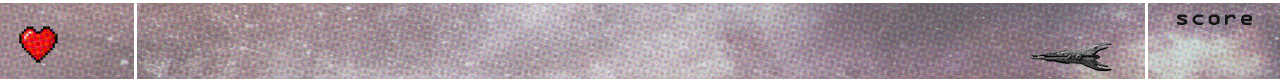
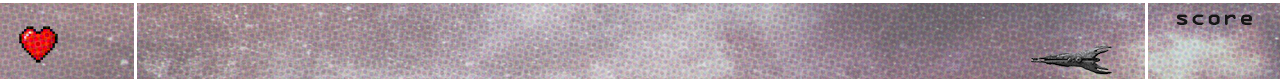
Added zeros to the left of scores so the text doesn't get distorted as scores increase, updated image accordingly.

Changed region(s): [[0.7812, 0.5316, 0.875, 0.9367]]

diff --git a/src/org/academiadecodigo/spaceimpact/simplegfx/SimpleGfxScoreBoard.java b/src/org/academiadecodigo/spaceimpact/simplegfx/SimpleGfxScoreBoard.java
@@ -47,11 +47,11 @@ public class SimpleGfxScoreBoard implements ScoreBoard {
         textLivesX = background.getPadding() + 85;
         textLivesY = y + 37;
 
-        textScoreX = background.getWidth() - 63;
-        textScoreY =  y + 37;
+        textScoreX = background.getWidth() - 75;
+        textScoreY = y + 45;
 
         destroyedEnemyShipsX = background.getWidth() - 210;
-        destroyedEnemyShipsY = y + 15;
+        destroyedEnemyShipsY = y + 20;
     }
 
     @Override
@@ -66,7 +66,7 @@ public class SimpleGfxScoreBoard implements ScoreBoard {
         textLives.draw();
 
         textScore = new Text(textScoreX, textScoreY, "");
-        textScore.grow( 4, 8);
+        textScore.grow(20, 20);
         textScore.draw();
 
         destroyedEnemyShips = new Text(destroyedEnemyShipsX, destroyedEnemyShipsY, "");
@@ -78,8 +78,34 @@ public class SimpleGfxScoreBoard implements ScoreBoard {
     public void showScore() {
         //method that updates the scores that are being displayed
 
-        textScore.setText("" + score.getTotal());
-        destroyedEnemyShips.setText("" + score.getDestroyedEnemyShips());
+        //number of lives left
         textLives.setText("" + score.getLives());
+
+        //total score
+        if (score.getTotal() == 0) {
+            textScore.setText("00000");
+        } else if (score.getTotal() < 10) {
+            textScore.setText("0000" + score.getTotal());
+        } else if (score.getTotal() < 100) {
+            textScore.setText("000" + score.getTotal());
+        } else if (score.getTotal() < 1000) {
+            textScore.setText("00" + score.getTotal());
+        } else if (score.getTotal() < 10000) {
+            textScore.setText("0" + score.getTotal());
+        }
+
+
+        //number of destroyed EnemyShips
+        if (score.getDestroyedEnemyShips() == 0) {
+            destroyedEnemyShips.setText("0000");
+        } else if (score.getDestroyedEnemyShips() < 10) {
+            destroyedEnemyShips.setText("000" + score.getDestroyedEnemyShips());
+        } else if (score.getDestroyedEnemyShips() < 100) {
+            destroyedEnemyShips.setText("00" + score.getDestroyedEnemyShips());
+        } else if (score.getTotal() < 100) {
+            destroyedEnemyShips.setText("0" + score.getDestroyedEnemyShips());
+        }
+
+
     }
 }
